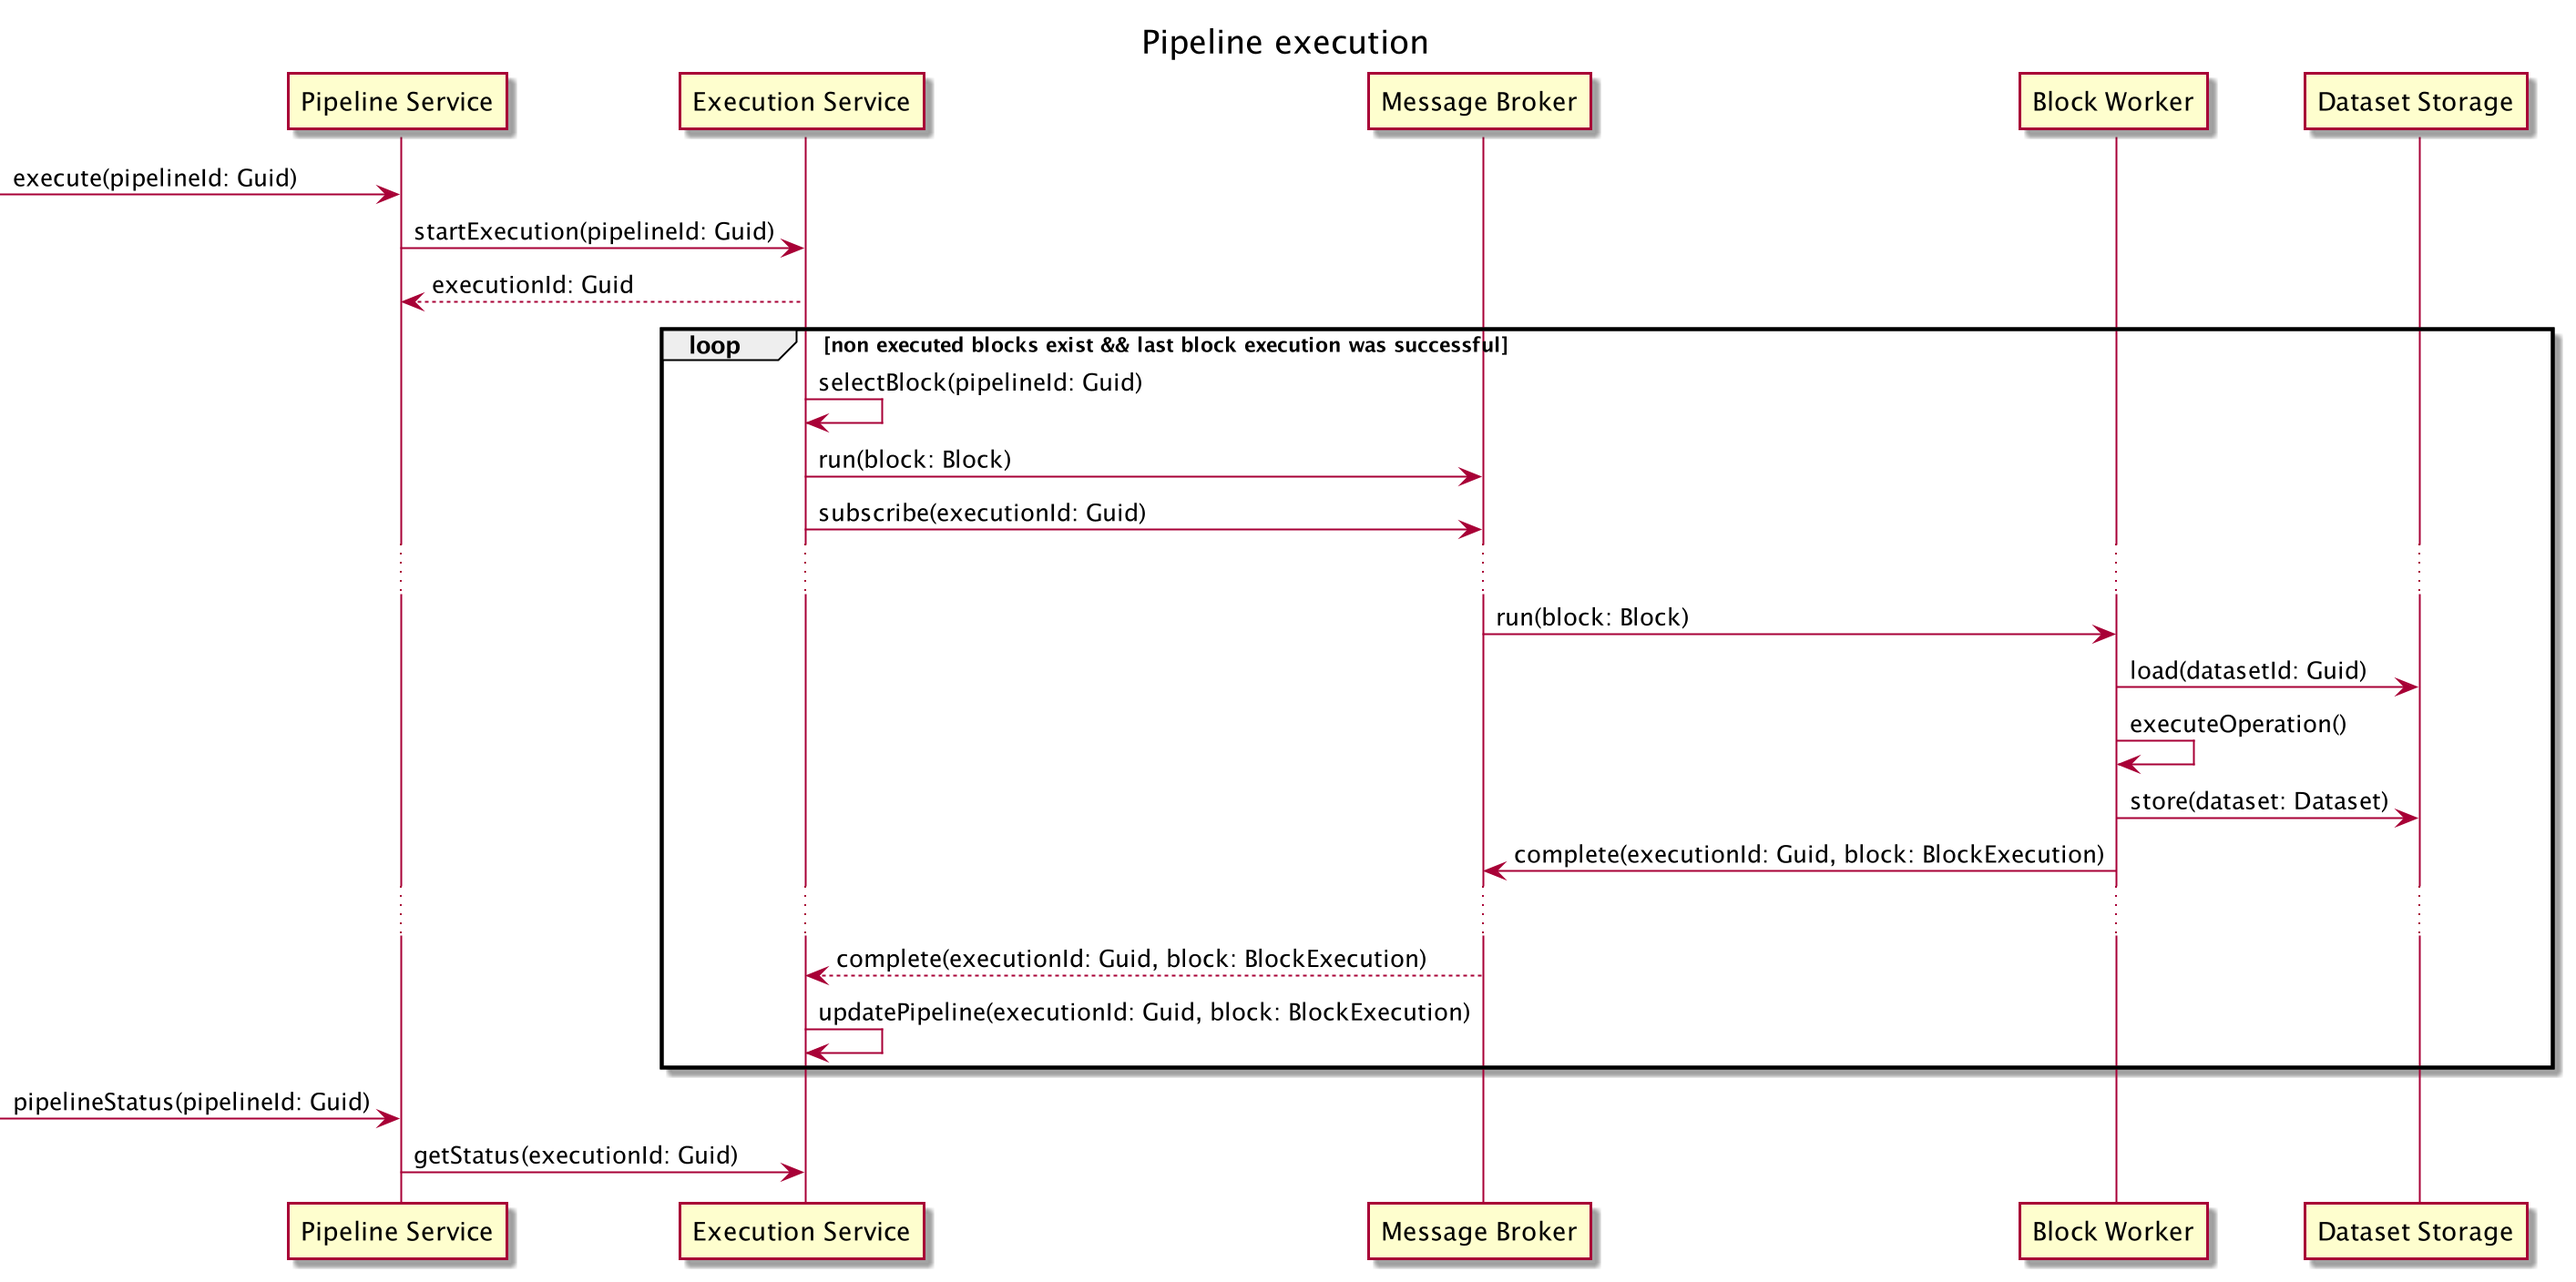
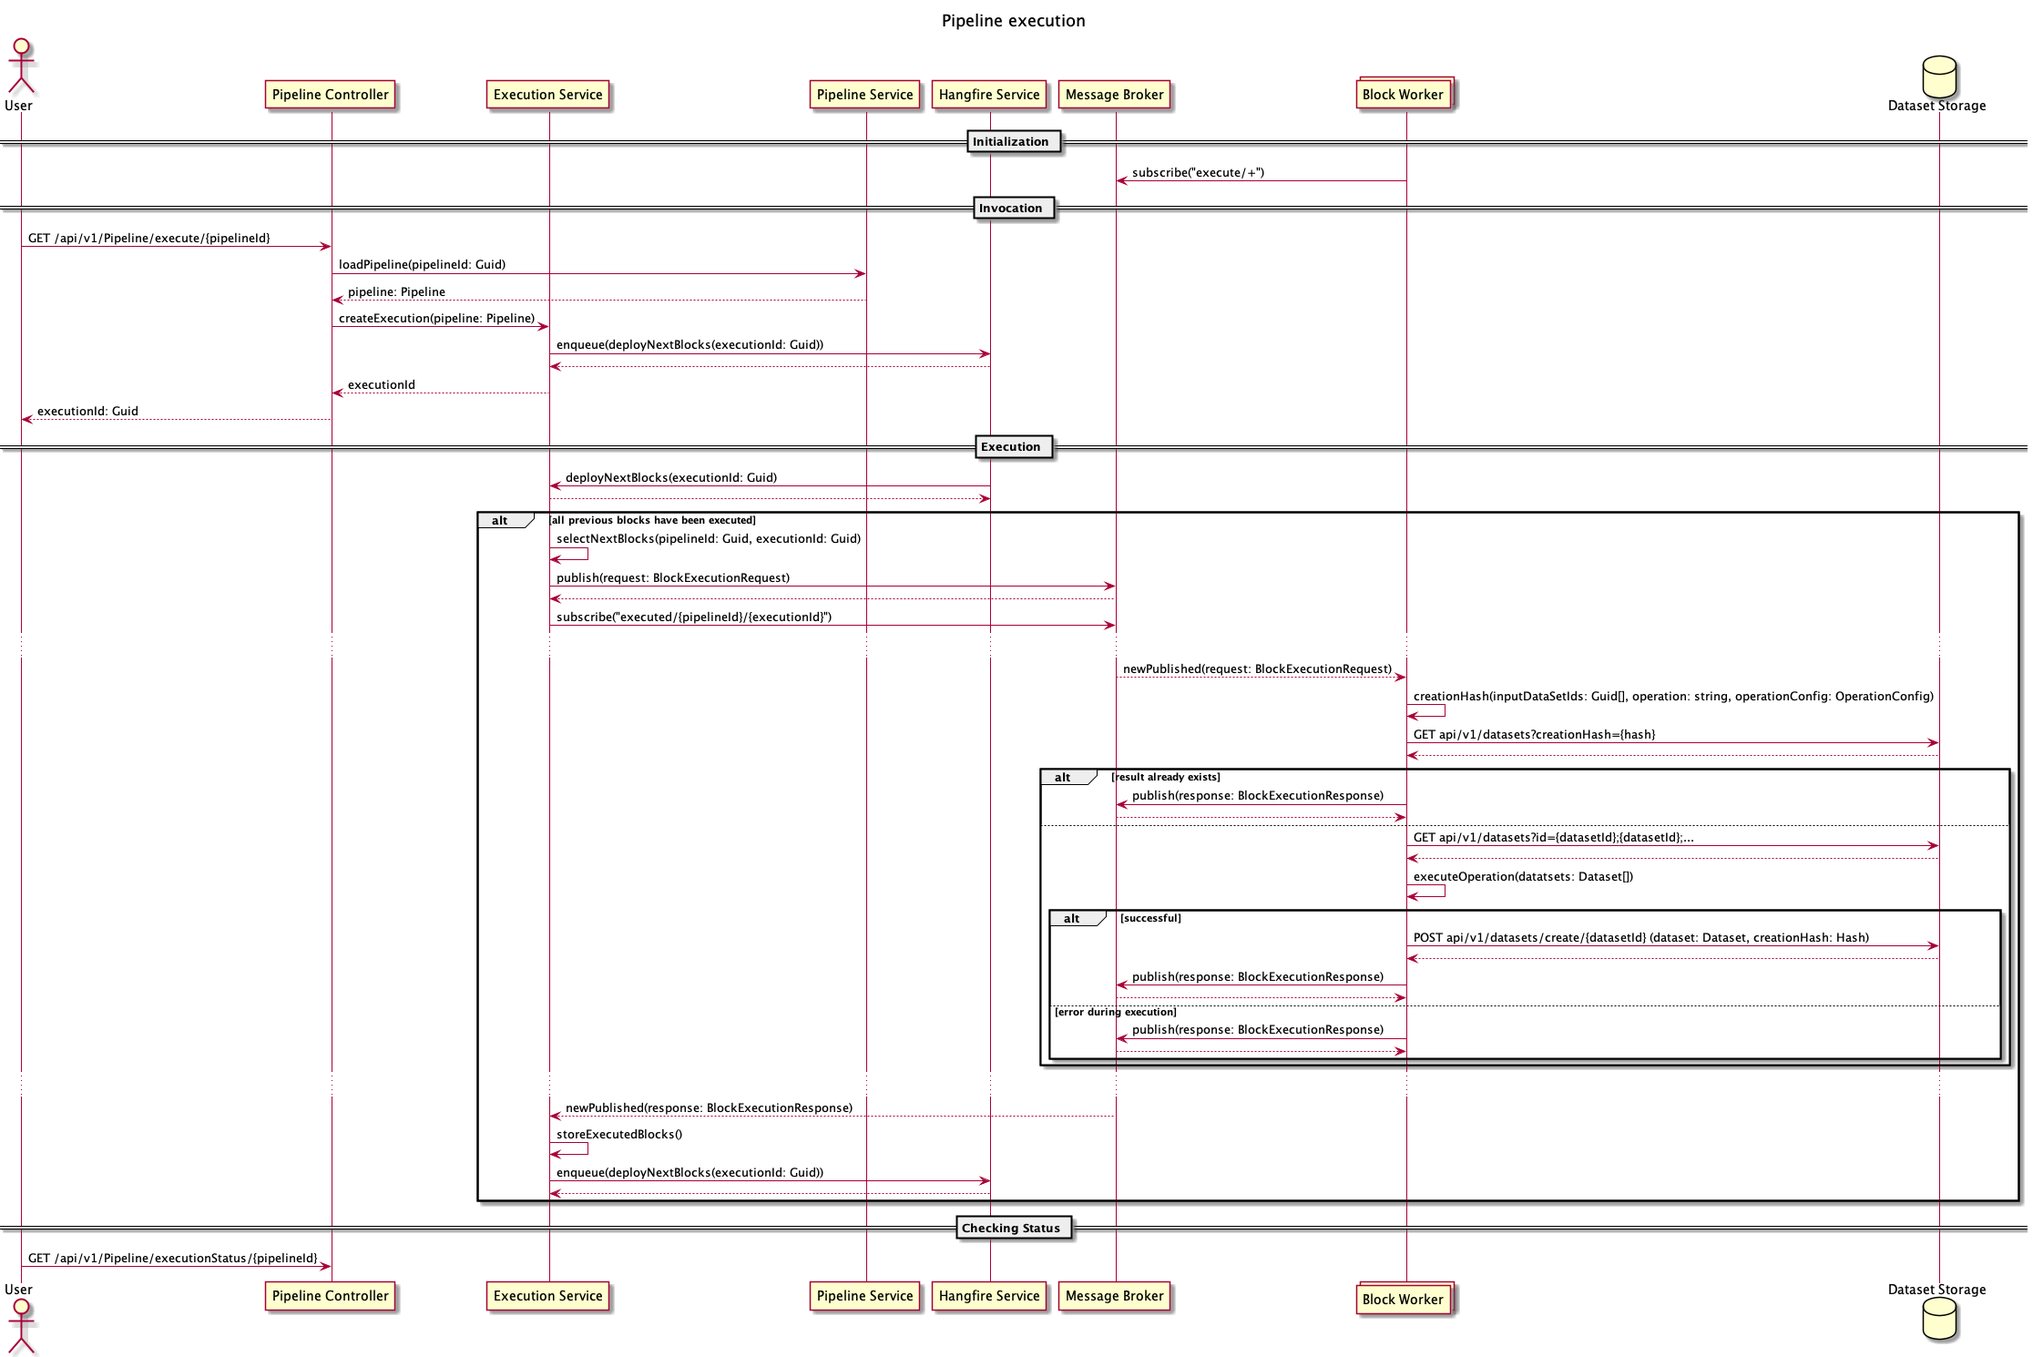
[HT-13] Extended sequence diagram for first prototype

diff --git a/README.md b/README.md
@@ -20,8 +20,13 @@ and press <kbd>ctrl</kbd> + <kbd>C</kbd> (this will send a `SIGINT` signal to th
 
 ## Architecture
 
-Overview
+This is a general overview of the components involved in a somewhat functional system. The first prototype will
+primarily focus on implementing the communication between the `Pipeline Service` and the `Python Workers`. In a second
+iteration it is planned to also include the `Leadning Service`.  
 ![Architecture Diagram Overview](./docs/architecture/prototype-a.png)
 
-Class Diagram
-![Architecture Class Diagram](./docs/architecture/prototype-a-class-diagram.png)
+## Sequence Diagram Iteration 1
+
+The first iteration of the prototype follows this diagram:
+
+![Sequence Diagram](./docs/sequence-diagrams/pipeline_execution.png)
